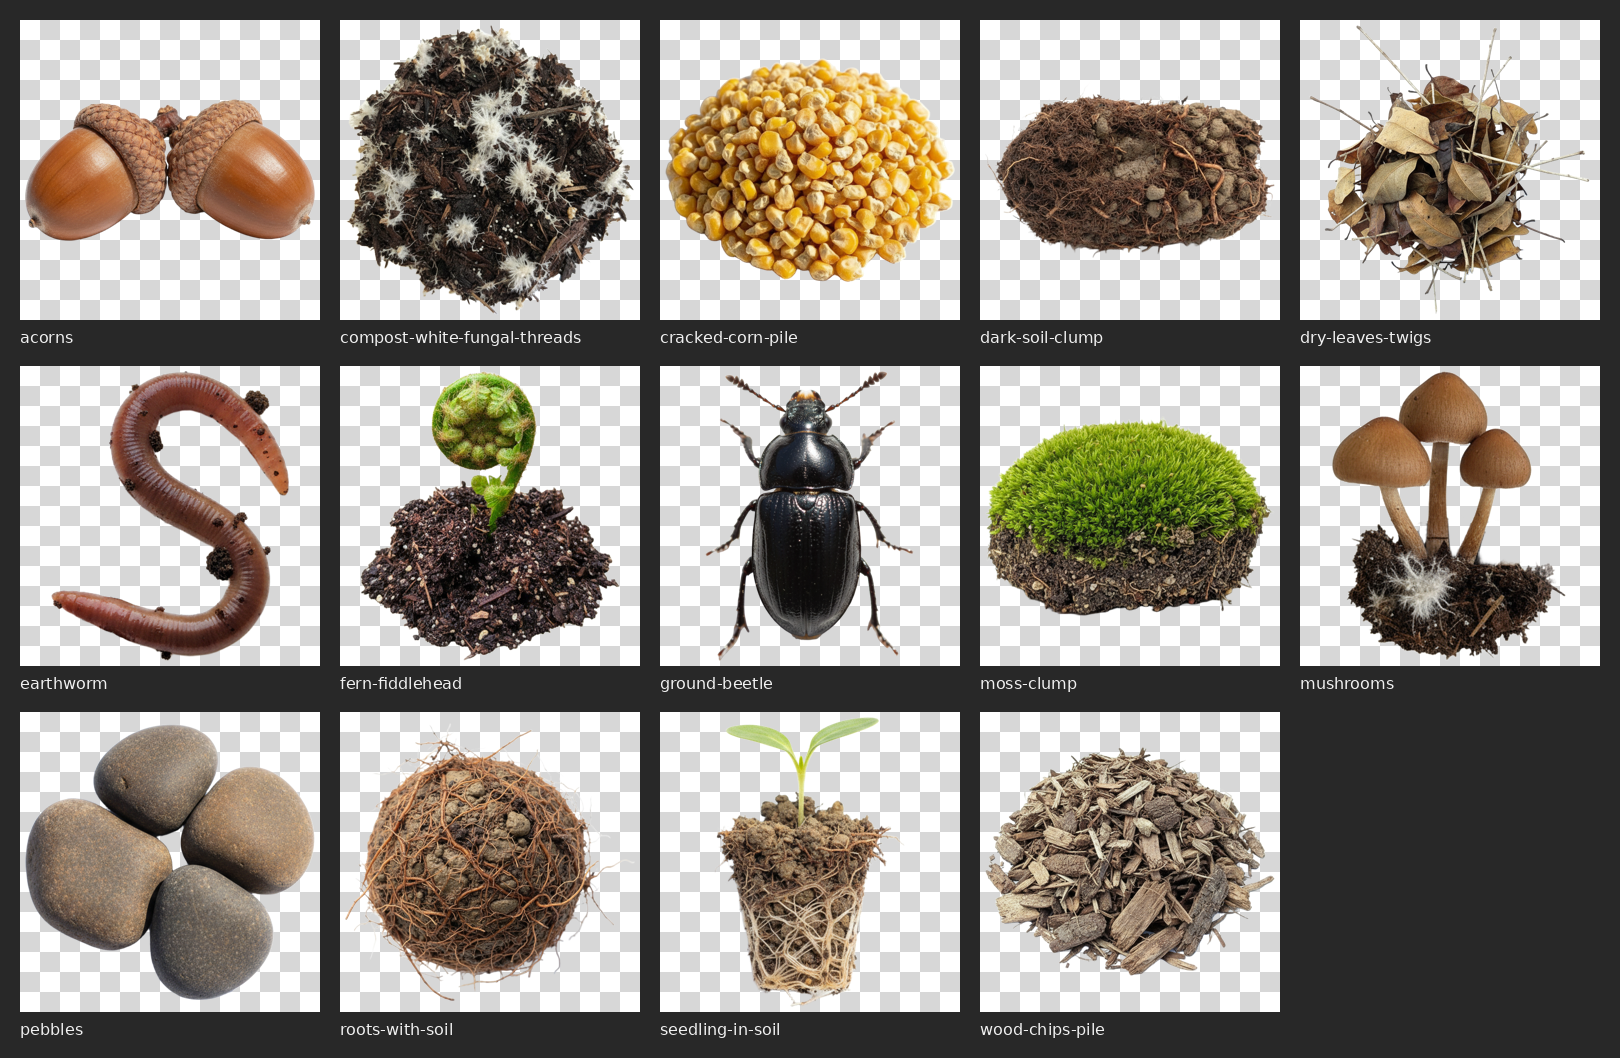
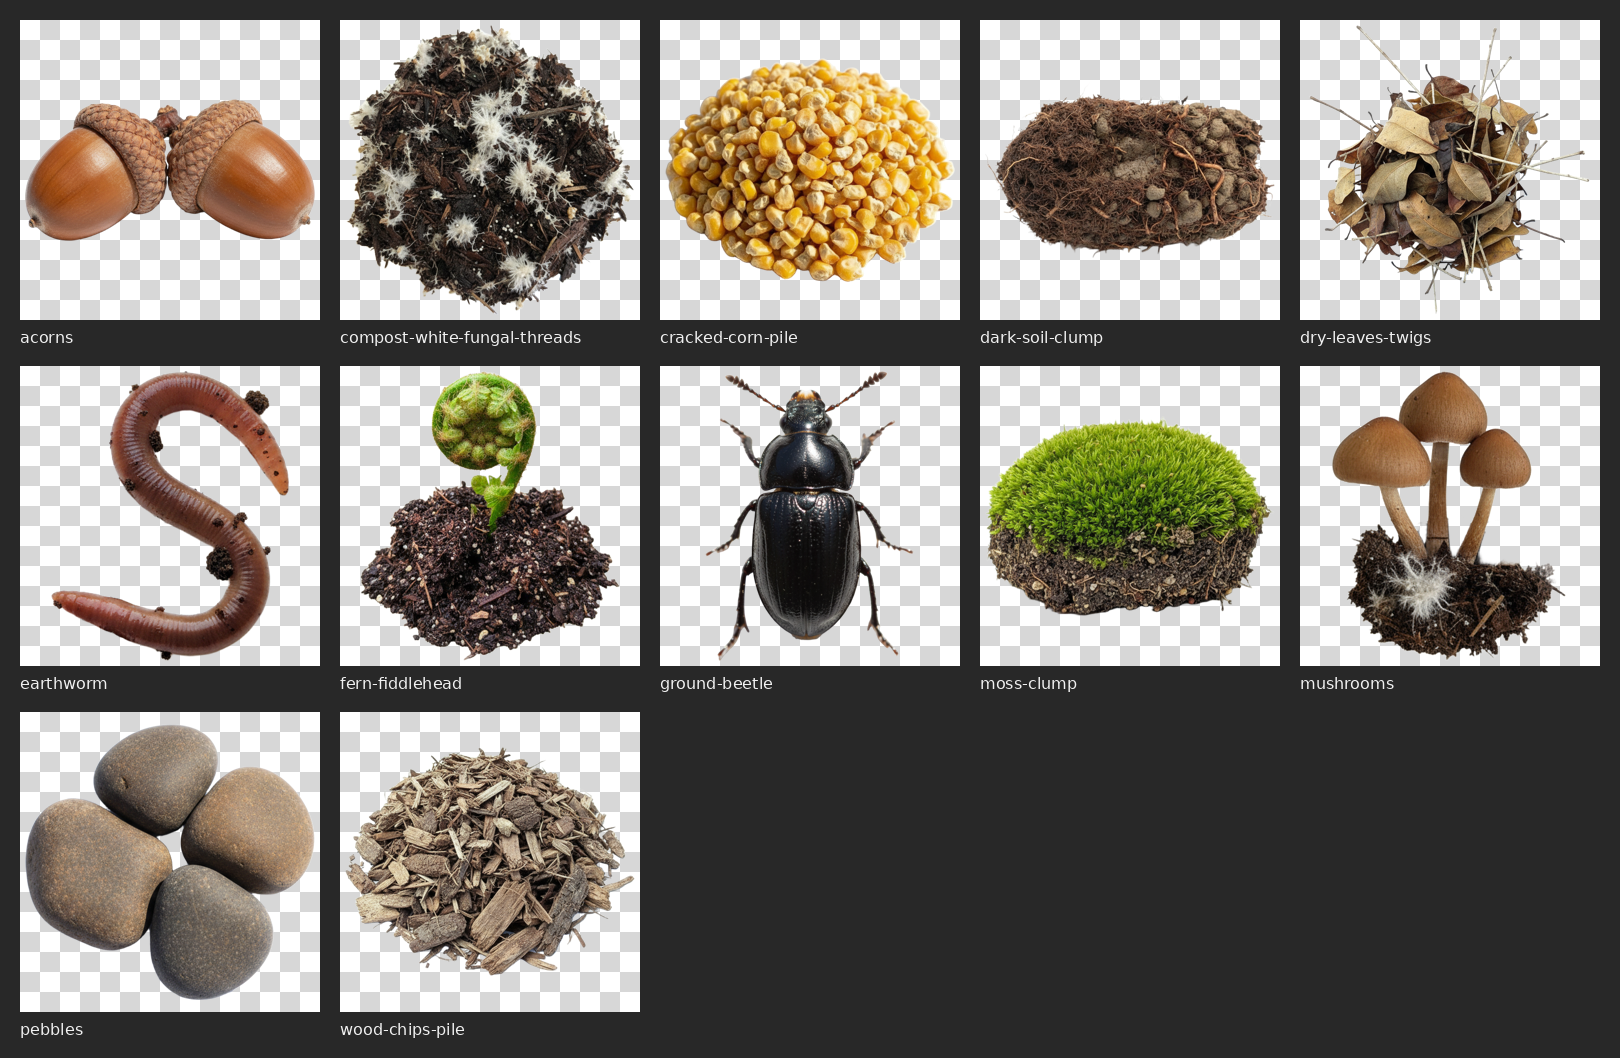
Soil cutouts: remove roots-with-soil and seedling-in-soil
Claude-Session: https://claude.ai/code/session_01Mm2WQWuqhG5pSCHMfFzovJ

Changed region(s): [[0.216, 0.655, 0.8025, 0.9981], [0.216, 0.9669, 0.2778, 0.9981]]

diff --git a/social/tools/soil_cutouts.py b/social/tools/soil_cutouts.py
@@ -23,7 +23,6 @@ ITEMS = {
     "earthworm": ("costa-rica-2024-07-11-hands-in-the-compost.jpg", "one live pink-brown earthworm in a loose S curve with a few crumbs of dark soil on it"),
     "compost-white-fungal-threads": ("costa-rica-2024-07-20-fungal-hyphae.jpg", "a clump of dark finished compost with fluffy white fungal threads growing over it"),
     "dark-soil-clump": ("card-roots-in-soil-capri.jpg", "one crumbly clump of dark rich living soil with visible aggregates and tiny root hairs"),
-    "roots-with-soil": ("card-roots-in-soil-capri.jpg", "a plant root ball: branching roots with soil crumbs clinging to them"),
     "wood-chips-pile": ("santa-fe-2026-10-aged-wood-chips.jpg", "a small heap of aged weathered wood chips"),
     "cracked-corn-pile": ("costa-rica-2024-07-05-cracked-corn-close-up.jpg", "a small mound of golden cracked corn kernels"),
     "pebbles": ("card-roots-in-soil-capri.jpg", "a small group of five smooth pebbles in earthy greys and browns"),
@@ -32,7 +31,6 @@ ITEMS = {
     "fern-fiddlehead": ("costa-rica-2023-08-16-tropical-leaves.jpg", "a single fern fiddlehead, a young green frond unrolling in a tight spiral"),
     "ground-beetle": ("costa-rica-2024-07-20-fungal-hyphae.jpg", "one shiny dark ground beetle seen from above"),
     "dry-leaves-twigs": ("santa-fe-2026-10-aged-wood-chips.jpg", "a small loose bundle of dry brown fallen leaves and thin twigs"),
-    "seedling-in-soil": ("card-roots-in-soil-capri.jpg", "a young green seedling with two leaves, pulled up with its white roots and a clump of soil"),
     "acorns": ("santa-fe-2026-10-aged-wood-chips.jpg", "two brown acorns with their caps"),
 }
 
